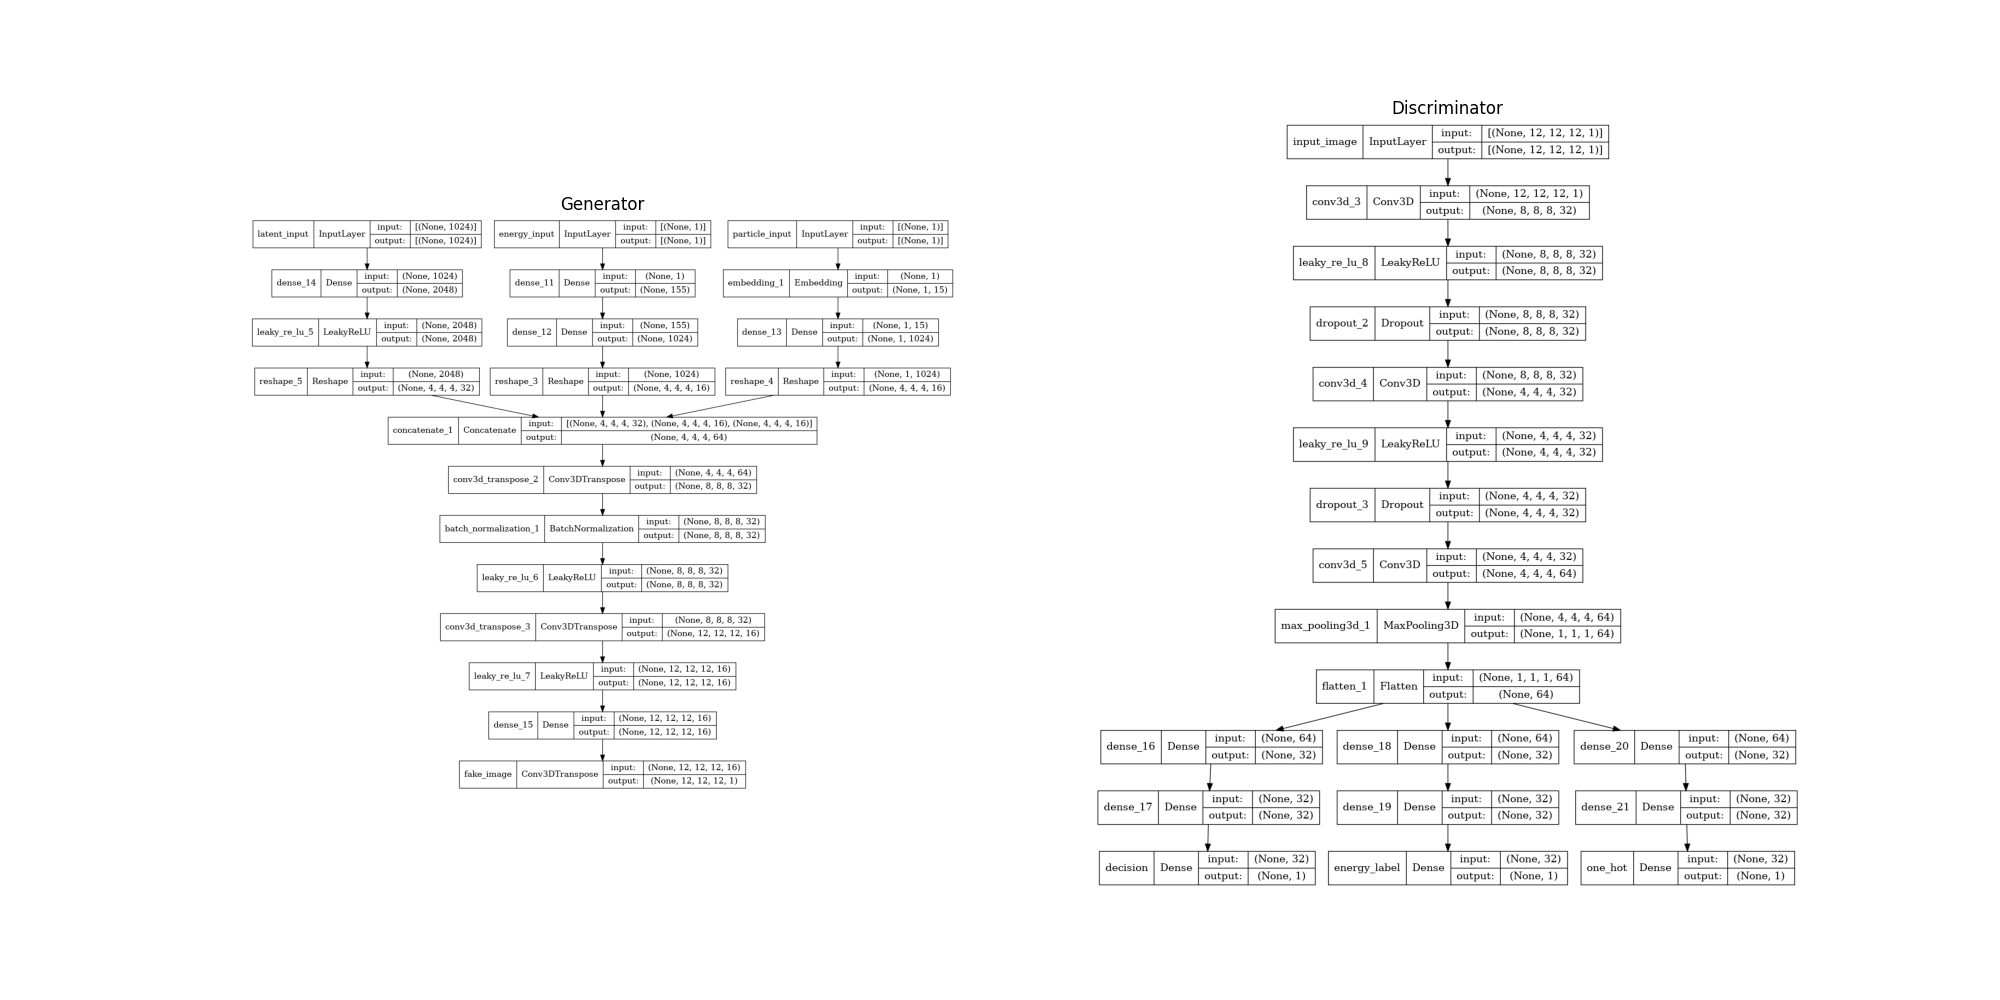
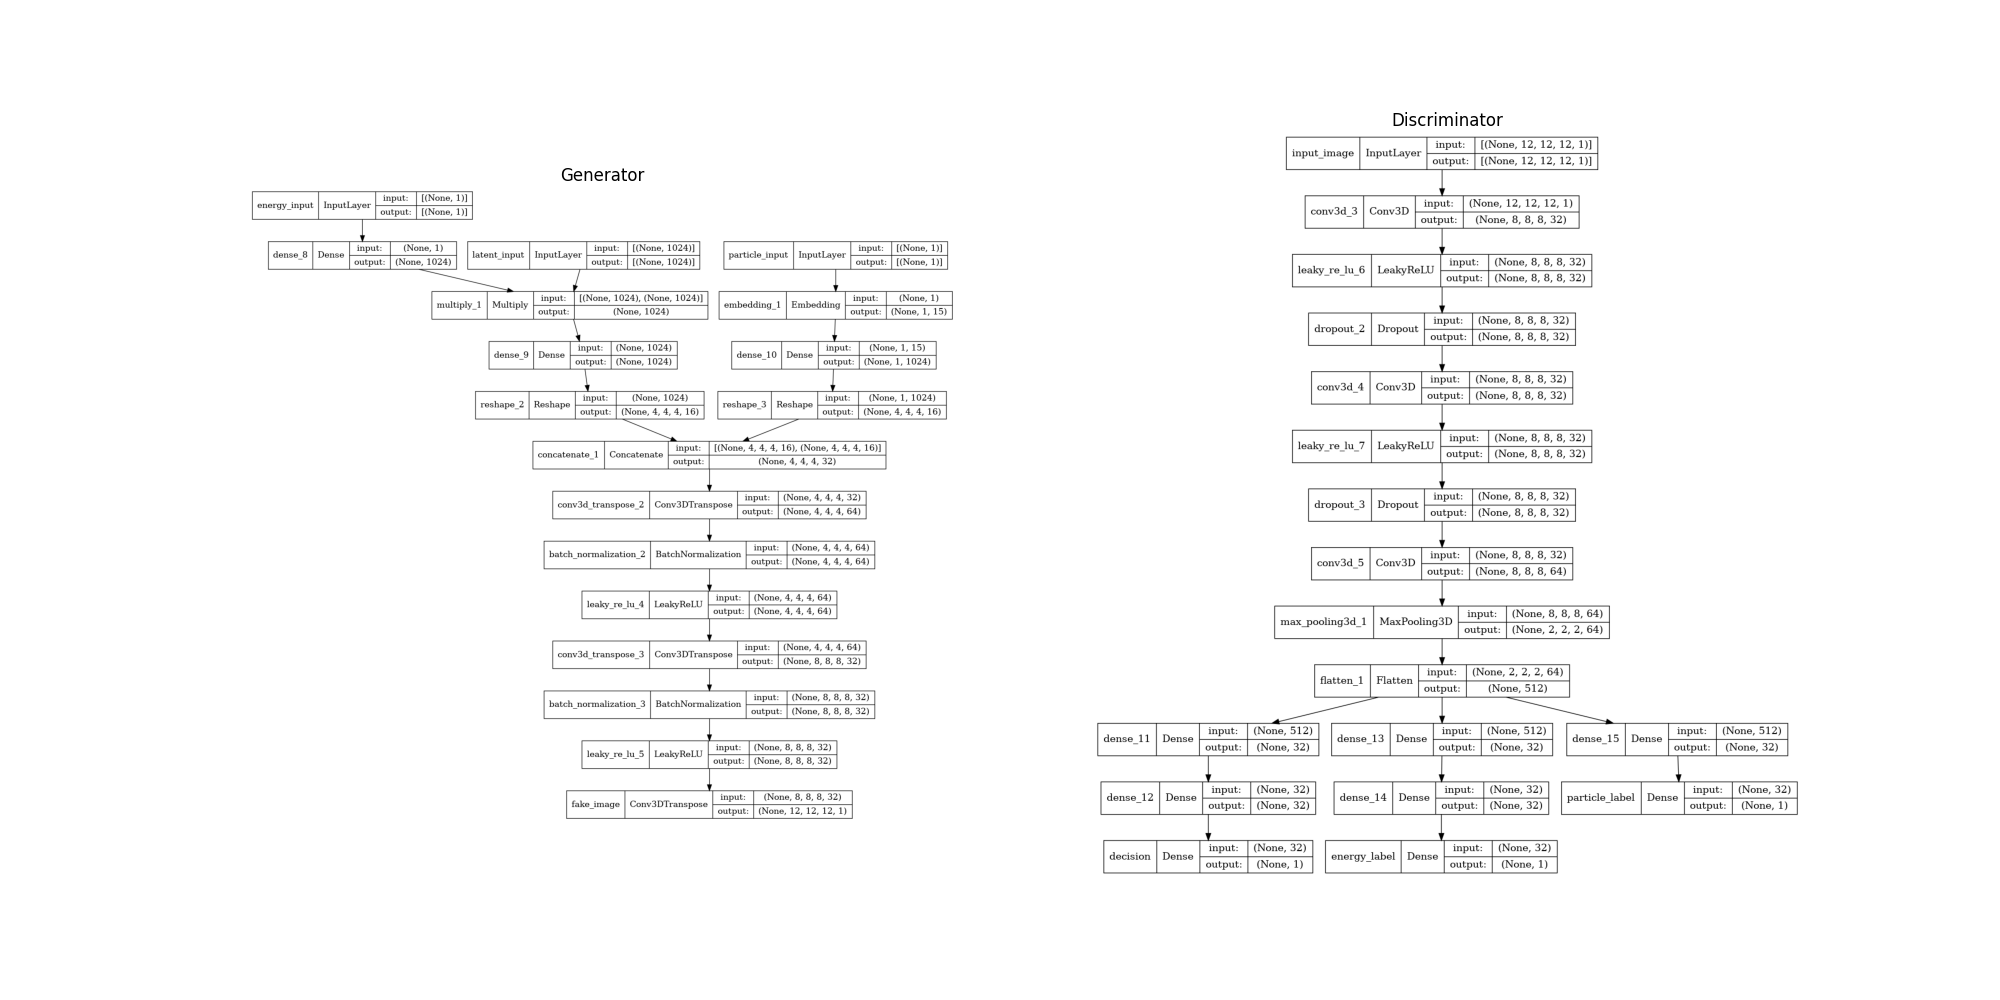
new generator topology implemented

Changed region(s): [[0.527, 0.093, 0.899, 0.899], [0.124, 0.155, 0.496, 0.837]]

diff --git a/EM_shower_simulator/make_models_C.py b/EM_shower_simulator/make_models_C.py
@@ -21,6 +21,7 @@ from tensorflow.keras.layers import (Input,
                                      Dropout,
                                      Lambda,
                                      Concatenate,
+                                     Multiply,
                                      Flatten)
 
 #-------------------------------------------------------------------------------
@@ -49,48 +50,43 @@ def make_generator_model():
 
     Labels are given as scalars in input; then they are passed to an embedding
     layer that creates a sort of lookup-table (vector[EMBED_DIM] of floats) that
-    categorizes the labels in N_CLASSES_* classes.
+    categorizes the labels in N_CLASSES * classes.
     """
+    SIDE = 4
+    IN_NODES = 16
     N_FILTER = 32
     EMBED_DIM = 5
     KERNEL = (5, 5, 5)
-    SIDE_L = 4
-    input_shape = (SIDE_L, SIDE_L, SIDE_L, 2 * N_FILTER)
-    image_shape = (SIDE_L, SIDE_L, SIDE_L, N_FILTER)
-
-    # Input[i] -> input[i] + convolution * (KERNEL-1)
-    error = "ERROR building the generator: shape different from geometry!"
-
-    n_nodes = 1
-    for cell in input_shape:
-        n_nodes = n_nodes * cell
-
-    # Energy label input
-    en_label = Input(shape=(1,), name="energy_input")
-    li_en = Dense(N_ENER*EMBED_DIM, activation="relu")(en_label)
-    li_en = Dense(n_nodes, activation="linear")(li_en)
-    li_en = Reshape(input_shape)(li_en)
-
-    # ParticleID label input
-    pid_label = Input(shape=(1,), name="particle_input")
-    li_pid = Embedding(N_PID, N_PID*EMBED_DIM)(pid_label)
-    li_pid = Dense(n_nodes, activation="linear")(li_pid)
-    li_pid = Reshape(input_shape)(li_pid)
+    image_shape = (SIDE, SIDE, SIDE, IN_NODES)
 
     n_nodes = 1
     for cell in image_shape:
         n_nodes = n_nodes * cell
 
+    # Input[i] -> input[i] + convolution * (KERNEL-1)
+    error = "ERROR building the generator: shape different from geometry!"
+
     # Image generator input
     in_lat = Input(shape=(NOISE_DIM,), name="latent_input")
-    gen = Dense(n_nodes, activation="linear")(in_lat)
-    gen = BatchNormalization()(gen) #gen = LeakyReLU(alpha=0.2)(gen)
+
+    # Energy label input
+    en_label = Input(shape=(1,), name="energy_input")
+    li_en = Dense(NOISE_DIM, activation="relu", use_bias=False)(en_label)
+
+    # Combine energy and noise
+    gen = Multiply()([in_lat, li_en])
+    gen = Dense(n_nodes, activation="linear", use_bias=False)(gen)
     gen = Reshape(image_shape)(gen)
 
-    # Merge image gen and label input
-    merge = Concatenate()([gen, li_en, li_pid])
+    # ParticleID label input
+    pid_label = Input(shape=(1,), name="particle_input")
+    li_pid = Embedding(N_PID, N_PID*EMBED_DIM)(pid_label)
+    li_pid = Dense(n_nodes, activation="tanh", use_bias=False)(li_pid)
+    li_pid = Reshape(image_shape)(li_pid)
 
-    gen = Conv3DTranspose(2*N_FILTER, KERNEL, use_bias=False)(merge)
+    # Merge image gen and label input
+    merge = Concatenate()([gen, li_pid])
+    gen = Conv3DTranspose(2*N_FILTER, KERNEL, padding="same")(merge)
     logger.info(gen.get_shape())
     gen = BatchNormalization()(gen)
     gen = LeakyReLU(alpha=0.2)(gen)
@@ -98,12 +94,10 @@ def make_generator_model():
     gen = Conv3DTranspose(N_FILTER, KERNEL, use_bias=False)(gen)
     logger.info(gen.get_shape())
     gen = BatchNormalization()(gen)
-    #gen = LeakyReLU(alpha=0.2)(gen)
+    gen = LeakyReLU(alpha=0.2)(gen)
 
-    gen = Dense(N_FILTER, activation="linear")(gen)
-
-    output = (Conv3DTranspose(1, KERNEL, use_bias=False, padding="same",
-                                 activation="tanh", name="fake_image")(gen))
+    output = (Conv3DTranspose(1, KERNEL, use_bias=False, activation="tanh",
+                                                        name="fake_image")(gen))
 
     logger.info(f"Shape of the generator output: {output.get_shape()}")
     assert output.get_shape().as_list()==[None, *GEOMETRY], error
@@ -208,8 +202,7 @@ def make_discriminator_model():
     output_en = Dense(1, activation="relu", name="energy_label")(discr_en)
 
     discr_id = Dense(N_FILTER, activation="relu")(discr)
-    discr_id = Dense(N_FILTER, activation="relu")(discr_id)
-    output_id = Dense(1, activation="sigmoid", name="one_hot")(discr_id)
+    output_id = Dense(1, activation="sigmoid", name="particle_label")(discr_id)
 
     output = [output_conv, output_en, output_id]
     model = Model(in_image, output, name='discriminator')

diff --git a/EM_shower_simulator/class_GAN.py b/EM_shower_simulator/class_GAN.py
@@ -93,7 +93,7 @@ class ConditionalGAN(tf.keras.Model):
     """Class for a conditional GAN.
     It inherits keras.Model properties and functions.
     """
-    def __init__(self, gener, discr, learning_rate=5e-5):
+    def __init__(self, gener, discr, learning_rate=2e-5):
         """Constructor.
         Inputs:
         gener = generator network;
@@ -114,7 +114,7 @@ class ConditionalGAN(tf.keras.Model):
         # Scheduler attributes and optimizers
         self.switch = True
         self.learning_rate = learning_rate
-        self.generator_optimizer = Adam(learning_rate * 6)
+        self.generator_optimizer = Adam(learning_rate * 10)
         self.discriminator_optimizer = Adam(learning_rate)
 
         # Manager to save rusults from training in form of checkpoints.
@@ -430,5 +430,5 @@ class ConditionalGAN(tf.keras.Model):
            # Update history and call the scheduler
            for key, value in logs.items():
                self.history.setdefault(key, []).append(value)
-           self.scheduler(epoch + 1, logs, wake_up=wake_up)
+           #self.scheduler(epoch + 1, logs, wake_up=wake_up)
         return self.history
